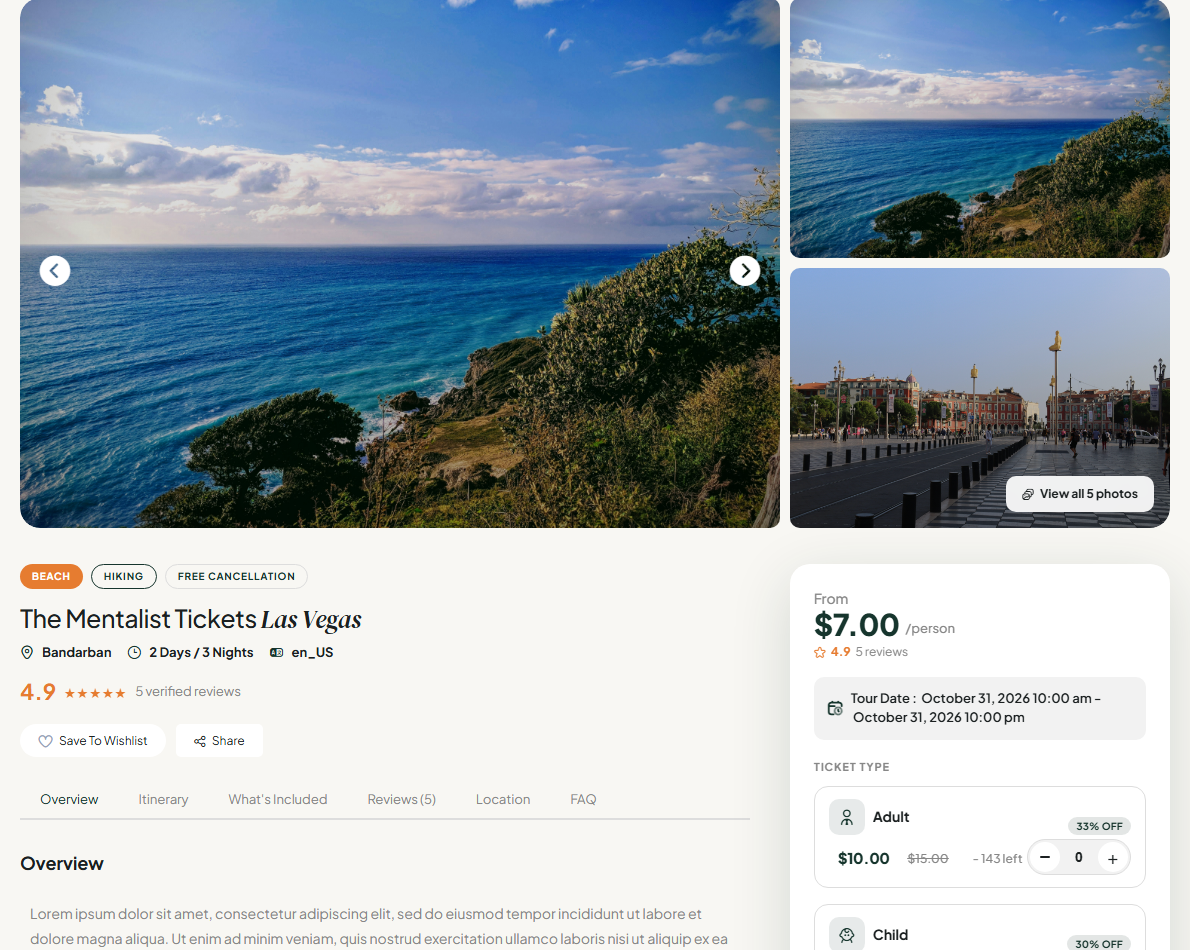
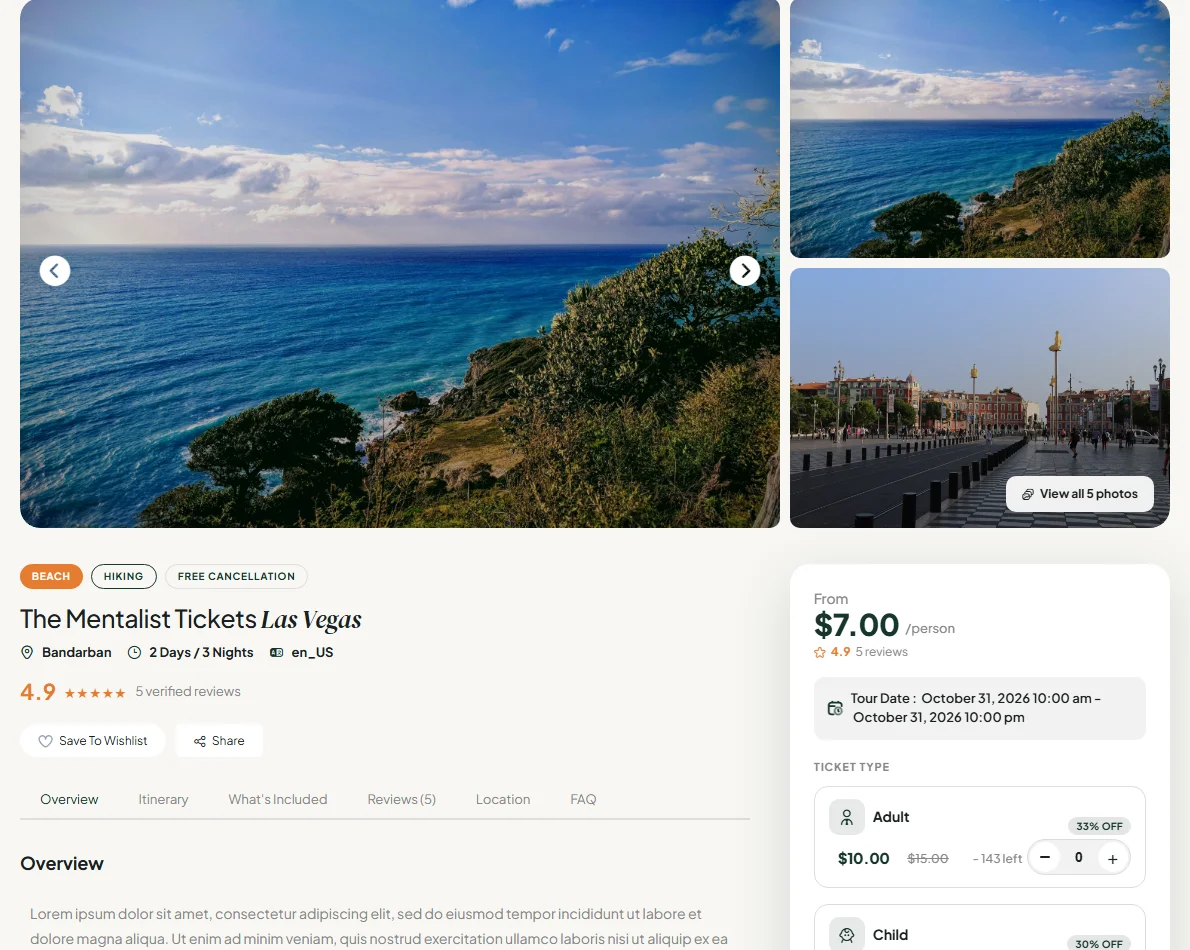
feat: add frontend registration stylesheet and placeholder image for tour booking manager

diff --git a/assets/frontend/ttbm_registration.css b/assets/frontend/ttbm_registration.css
@@ -8596,6 +8596,8 @@ button.ttbm_explore_button:hover {
 	overflow: hidden;
 	cursor: pointer;
 	background: #f1f5f9;
+	width: 100%;
+	border-radius: 16px 0 0;
 }
 
 .ttbm-lv-thumb {
